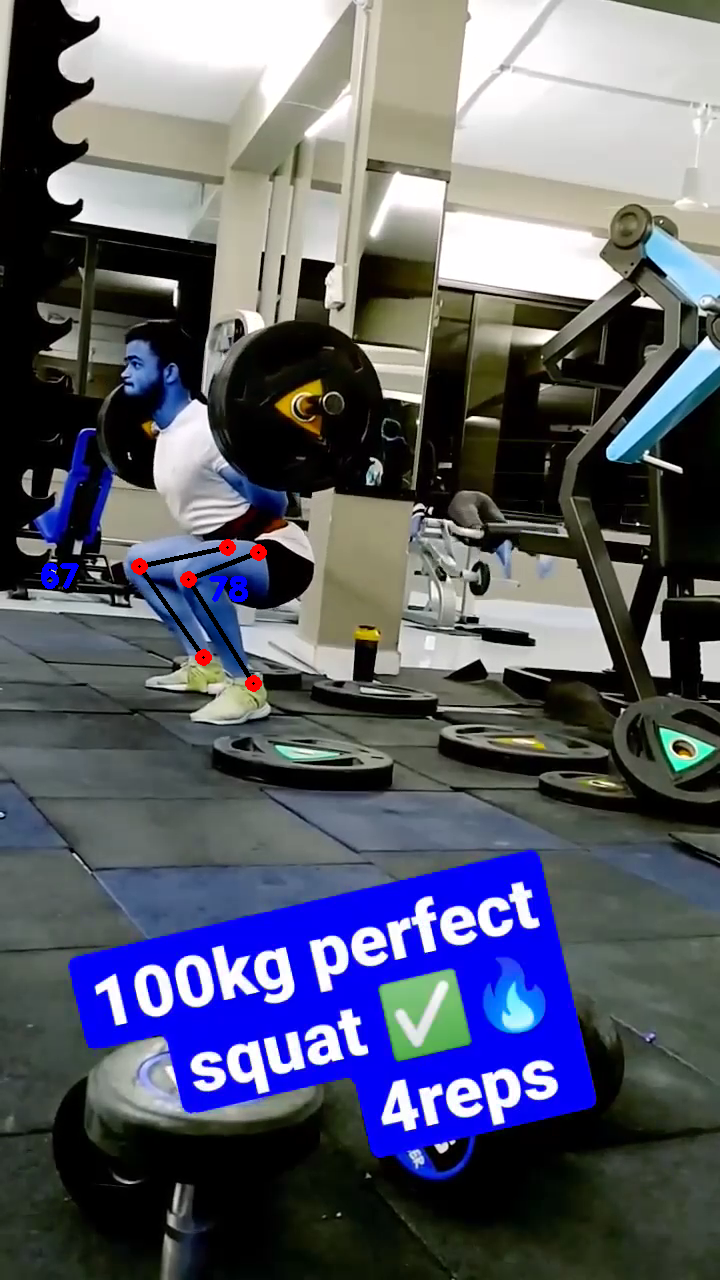
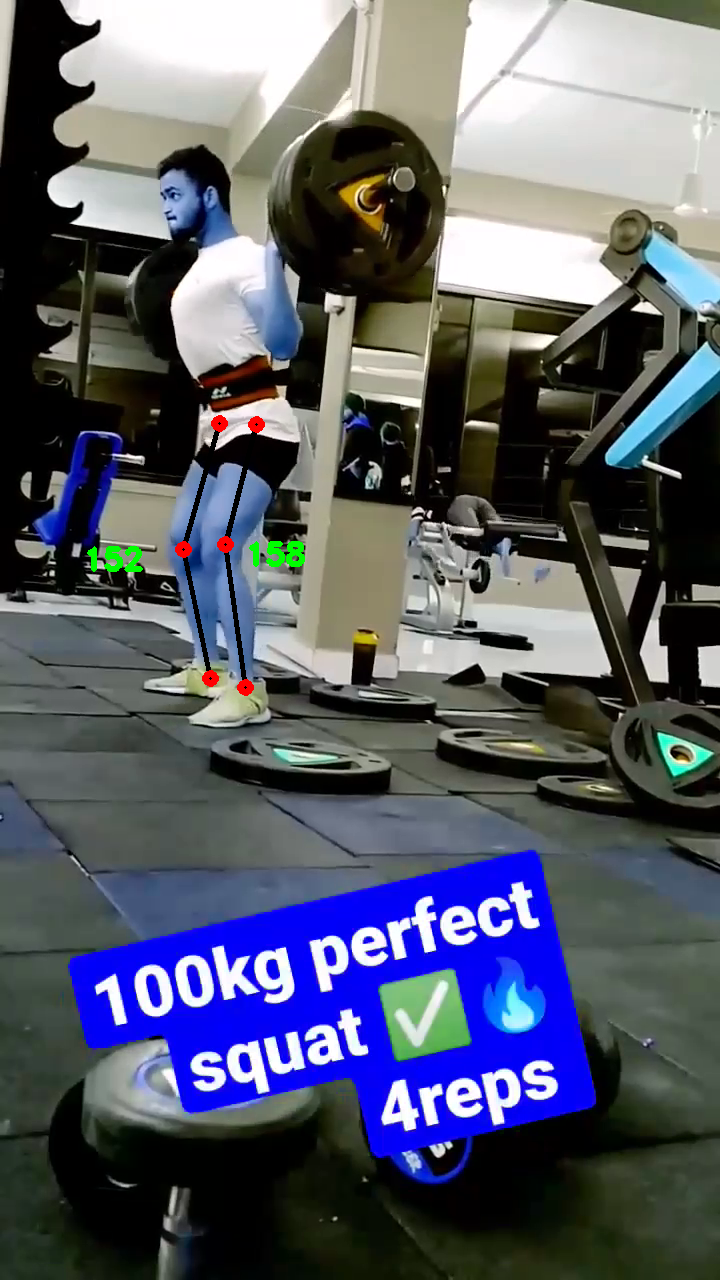
progress

diff --git a/cucanj.py b/cucanj.py
@@ -5,8 +5,71 @@ import math
 import numpy as np 
 from PIL import Image as im
 
+def test(frame):
+    osoba = yolo.ocitajOsobu(frame) # Čitanje osobe sa frejma
+
+    if(osoba.levoKoleno.visibility > 0.5 and osoba.desnoKoleno.visibility > 0.5):
+
+            cv2.line(frame, (int(osoba.levoKoleno.x),int(osoba.levoKoleno.y)), (int(osoba.levoStopalo.x),int(osoba.levoStopalo.y)), (0,0,0), 3)
+            cv2.line(frame, (int(osoba.levoKoleno.x),int(osoba.levoKoleno.y)), (int(osoba.leviKuk.x),int(osoba.leviKuk.y)), (0,0,0), 3)
+            cv2.circle(frame, (int(osoba.levoKoleno.x),int(osoba.levoKoleno.y)), radius=5, color=(255, 0, 0), thickness=5)
+            cv2.circle(frame, (int(osoba.levoStopalo.x),int(osoba.levoStopalo.y)), radius=5, color=(255, 0, 0), thickness=5)
+            cv2.circle(frame, (int(osoba.leviKuk.x),int(osoba.leviKuk.y)), radius=5, color=(255, 0, 0), thickness=5)
+            
+            cv2.line(frame, (int(osoba.desnoKoleno.x),int(osoba.desnoKoleno.y)), (int(osoba.desnoStopalo.x),int(osoba.desnoStopalo.y)), (0,0,0), 3)
+            cv2.line(frame, (int(osoba.desnoKoleno.x),int(osoba.desnoKoleno.y)), (int(osoba.desniKuk.x),int(osoba.desniKuk.y)), (0,0,0), 3)
+            cv2.circle(frame, (int(osoba.desnoKoleno.x),int(osoba.desnoKoleno.y)), radius=5, color=(255, 0, 0), thickness=5)
+            cv2.circle(frame, (int(osoba.desnoStopalo.x),int(osoba.desnoStopalo.y)), radius=5, color=(255, 0, 0), thickness=5)
+            cv2.circle(frame, (int(osoba.desniKuk.x),int(osoba.desniKuk.y)), radius=5, color=(255, 0, 0), thickness=5)
+
+            r=0
+            g=0
+            ugaoLevoKoleno = int(osoba.izracunajUgao(osoba.levoStopalo,osoba.levoKoleno,osoba.leviKuk))
+            if(ugaoLevoKoleno > 85): 
+                g=255 
+            else: 
+                r=255
+            cv2.putText(frame,
+                        text = str(ugaoLevoKoleno),
+                        org = (int(osoba.levoKoleno.x)+20, int(osoba.levoKoleno.y)+20),
+                        fontFace = cv2.FONT_HERSHEY_DUPLEX,
+                        fontScale = 1.0,
+                        color = (0, g, r),
+                        thickness = 3)
+            
+            r=0
+            g=0
+            ugaoDesnoKoleno = int(osoba.izracunajUgao(osoba.desnoStopalo,osoba.desnoKoleno,osoba.desniKuk))
+            if(ugaoDesnoKoleno > 85): 
+                g=255 
+            else: 
+                r=255
+            cv2.putText(frame,
+                        text = str(ugaoDesnoKoleno),
+                        org = (int(osoba.desnoKoleno.x)-100, int(osoba.desnoKoleno.y)+20),
+                        fontFace = cv2.FONT_HERSHEY_DUPLEX,
+                        fontScale = 1.0,
+                        color = (0, g, r),
+                        thickness = 3)
+    else:
+        cv2.putText(frame,
+            text = str("budite sigurni da ste lepo zauzeli polozaj"),
+            org = (0,0),
+            fontFace = cv2.FONT_HERSHEY_DUPLEX,
+            fontScale = 1.0,
+            color = (0, g, r),
+            thickness = 3)
+    array = frame
+    data = im.fromarray(array)
+    data.save('strumf.png')
+
+
+
 
 def izracunajCucanj(cap):
+
+
+
     while True:
 
         ret, frame = cap.read()  # Čitanje frejma sa kamere

diff --git a/GUI.py b/GUI.py
@@ -2,6 +2,8 @@ import tkinter as tk
 import cv2
 from colors import ColorPalette as colors
 import utils
+from tkinter import PhotoImage
+from PIL import Image, ImageTk
 
 root = tk.Tk()
 root.title("VTSFIT")
@@ -72,6 +74,29 @@ def command_five():
 
 def command_six():
     utils.kolena(get_video())
+
+#image = PhotoImage(file="strumf.png")
+#image_label = tk.Label(main_frame, image=image)
+#image_label.grid(row=1, column=1, columnspan=7)
+
+image_label = tk.Label(root, image=photo)
+image_label.pack()
+image = Image.open("strumf.png")
+photo = ImageTk.PhotoImage(image)
+
+def update_image():
+    # Load the updated image (you can replace this with your method to generate the new image)
+    updated_image = Image.open("strumf.png")  # Replace with your method to update the image
+    updated_photo = ImageTk.PhotoImage(updated_image)
+
+    # Update the label with the new image
+    image_label.configure(image=updated_photo)
+    image_label.image = updated_photo
+    
+    root.after(1000, update_image)
+
+def temp_one():
+    pass
 
 # Buttons
 button_one_border = tk.Frame(
@@ -235,5 +260,9 @@ button_six = tk.Button(
 
 button_six_boarder.grid(row=7, column=0, columnspan=1)
 button_six.grid(column=0, row=0)
+
+button = tk.Button(root, text="Click Me", command=temp_one)
+button.pack()
+
 
 root.mainloop()
